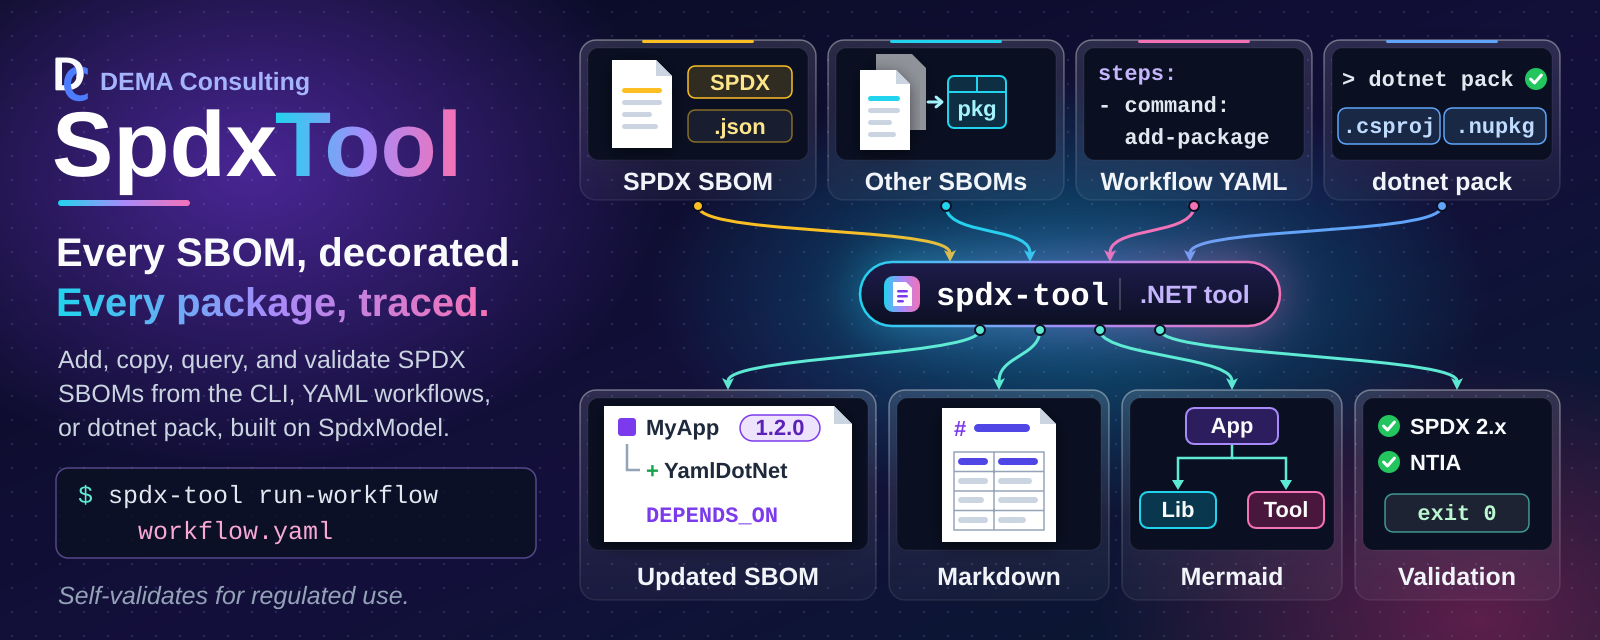
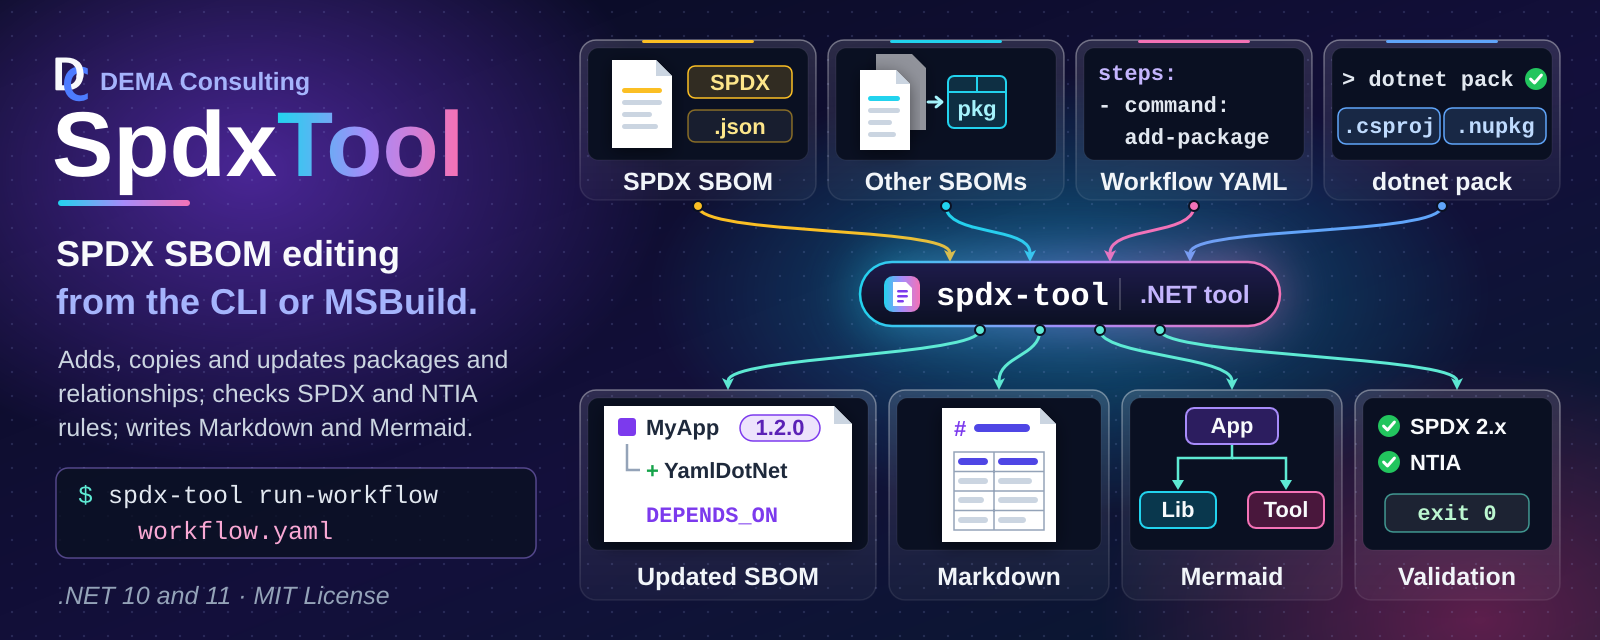
Sync agents/template and calm the README hero (#229)
* Sync shared agents, skills and standards (Agents #60, #62, #64)

Copy orchestrator/planning agents, sysml2tools-query skill and sysml2-modeling
standard verbatim; add the Project Scripts section to AGENTS.md, drop fix.ps1/lint.ps1
from the protected list, and record the legacy SysML2 package layout as a
repository-specific exception.

* Sync template: yamlfix comment setting and script CUSTOMIZATION headers (#61, #63)

* Calm the README hero and make it the H1 (template #66, #67)

Plain tagline 'SPDX SBOM editing / from the CLI or MSBuild.', factual body and
footnote, gradient only on the second wordmark word; README starts with the hero
as its H1 followed by the badges.

---------

diff --git a/.github/standards/sysml2-modeling.md b/.github/standards/sysml2-modeling.md
@@ -31,15 +31,15 @@ docs/sysml2/
 ├── common/
 │   └── software-items.sysml           # shared SoftwareItemMetadata::SoftwareInfo metadata def
 ├── model/
-│   ├── {system-name}.sysml            # system-level part def only (no subsystems/units inline)
+│   ├── {system-name}.sysml            # package {SystemName}; system-level part def only (no subsystems/units inline)
 │   ├── {system-name}/
-│   │   ├── {subsystem-name}.sysml     # subsystem part def; nests further for sub-subsystems
+│   │   ├── {subsystem-name}.sysml     # package {SystemName}_{SubsystemName}Subsystem; nests further for sub-subsystems
 │   │   └── {subsystem-name}/
-│   │       └── {unit-name}.sysml      # one file per unit
-│   ├── ots.sysml                      # OTS dependency parts (optional; if OTS items exist)
-│   └── shared.sysml                   # Shared Package parts (optional; if Shared Packages exist)
+│   │       └── {unit-name}.sysml      # package {SystemName}_{UnitName}; one file per unit
+│   ├── ots.sysml                      # package OtsDependencies: OTS parts (optional; if OTS items exist)
+│   └── shared.sysml                   # package SharedPackages: Shared Package parts (optional; if Shared Packages exist)
 └── views/
-    └── design-views.sysml             # named view usages rendered for the design document
+    └── design-views.sysml             # package {RepoName}DesignViews; named view usages rendered for the design document
 ```
 
 `docs/sysml2/common/software-items.sysml` defines the `SoftwareItemMetadata::SoftwareInfo`
@@ -62,14 +62,42 @@ so no single alias name would generalize. Agents discover the system(s) present 
 `docs/sysml2/**/*.sysml`, not by assuming a fixed name.
 
 Always pass the full set of `.sysml` files (or an equivalent glob) to every `sysml2tools`
-invocation — the model spans multiple files and cross-references between them; files sharing
-the same `package Name { ... }` merge into one namespace automatically with no `import`
-required, as long as all files are passed together. As of `sysml2tools` 0.1.0-beta.5,
+invocation — the model spans multiple files and cross-references between them, and a
+reference only resolves when the file declaring its target is loaded (see Package Structure
+below for how files reference each other). As of `sysml2tools` 0.1.0-beta.5,
 `lint` and `render` both expand `*`/`**` glob patterns internally (recursing correctly into
 subdirectories), so pass a single **quoted** glob string (e.g. `'docs/sysml2/**/*.sysml'`)
 and let the tool resolve it — do not rely on the shell to expand it, and do not quote-strip
 the pattern before it reaches the tool. Quoting keeps the behavior identical across
 PowerShell and bash, since neither shell needs to (or reliably does) expand `**` itself.
+
+## Package Structure
+
+SysML v2 has no package merging: each file is its own root namespace, and two root packages
+with the same name are duplicate members of the global namespace (the OMG Pilot
+Implementation reports "Duplicate of other owned member name" for each, and references across
+the halves do not resolve). A model that only loads because a tool is lenient is not portable,
+so:
+
+- Each `.sysml` file declares **exactly one uniquely named package**, and a package is never
+  declared (or "reopened") in more than one file.
+- Name each package from its place in the hierarchy, joined with an underscore:
+  `{SystemName}` for the system file, `{SystemName}_{SubsystemName}Subsystem` for a subsystem
+  (including a nested sub-subsystem, which is not prefixed with its parent subsystem), and
+  `{SystemName}_{UnitName}` for a unit. The system prefix keeps names unique across systems.
+  The shared files use `OtsDependencies` and `SharedPackages`, and the single views file uses
+  one repository-level package, `{RepoName}DesignViews` (not one per system).
+- Package names must be unique **repository-wide**. The short forms above are the default;
+  when one would collide (two `Storage` subsystems in different branches, or two units named
+  `Cache` in different subsystems), qualify it with the owning subsystem path, for example
+  `{SystemName}_{SubsystemName}_{UnitName}` (`Acme_Ingest_Cache` and `Acme_Query_Cache`).
+- Reference other files with an explicit `private import {PackageName}::*;` (a system or
+  subsystem file imports the package of each direct member so its `part` usages resolve; every
+  file that applies `SoftwareInfo` imports `SoftwareItemMetadata::*`).
+- Where an import would form a cycle (for example a unit that depends on a package that
+  already imports it), or for a one-off reference into another system, use the qualified name
+  instead, e.g. `dependency {UnitName} to {SystemName}_{OtherUnit}::{OtherUnit};`.
+  Import cycles raise a lint warning; qualified references do not.
 
 ## Model Content
 
@@ -174,11 +202,13 @@ Views control what gets rendered into diagrams for the design document. Use name
 **usages** (not `view def` **definitions**) — `expose` is only valid inside a usage:
 
 ```sysml
-package {SystemName} {
+package {RepoName}DesignViews {
     private import StandardViewDefinitions::*;
+    private import {SystemName}::*;
+    private import {SystemName}_{SubsystemName}Subsystem::*;
 
     view SoftwareStructureView : InterconnectionView {
-        expose {SystemName}::**;     // all members, recursively: system + subsystems + units
+        expose {SystemName}::{SystemName}System::**;  // system part def, recursively: subsystems + units
     }
 
     view {SystemName}View {
@@ -186,10 +216,12 @@ package {SystemName} {
     }
 
     view {SubsystemName}View {
-        expose {SubsystemName};      // one subsystem def only
+        expose {SubsystemName}Subsystem;      // one subsystem def only
     }
 }
 ```
+
+Views import (or qualify) every package whose members they expose, like any other file.
 
 Type `SoftwareStructureView` by a standard view definition from the SysML v2 Views library
 (`GeneralView`, `InterconnectionView`, ...; requires `sysml2tools` 0.3.0-beta.3+). The view
@@ -223,25 +255,27 @@ There is no dedicated `DependencyView`/`{SubsystemName}DependencyView` diagram c
 above), not rendered.
 
 When a repository has multiple systems, type `SoftwareStructureView` by `GeneralView`,
-expose each system package's members, and filter out documentation so the overview stays
-readable — the general view draws one package frame per system, while an interconnection
-view places all systems in a single row:
+expose each system's part def (and each subsystem's, by qualified name), and filter out
+documentation so the overview stays readable — the general view draws one package frame per
+system, while an interconnection view places all systems in a single row:
 
 ```sysml
 package {RepoName}DesignViews {
     private import StandardViewDefinitions::*;
 
     view SoftwareStructureView : GeneralView {
-        expose {SystemNameA}::**;
-        expose {SystemNameB}::**;
-        filter not @SysML::Documentation;
+        expose {SystemNameA}::{SystemNameA}System;
+        expose {SystemNameA}_{SubsystemName}Subsystem::{SubsystemName}Subsystem;
+        expose {SystemNameB}::{SystemNameB}System;
+        filter not (@SysML::Documentation);
     }
 }
 ```
 
 Documentation (`doc`) is exposed with its owner and drawn as a `doc` compartment unless a
-view filters it out; use `filter not @SysML::Documentation;` wherever doc text would clutter
-a diagram.
+view filters it out; use `filter not (@SysML::Documentation);` wherever doc text would clutter
+a diagram. The parentheses are required: the SysML v2 grammar does not accept the unparenthesized
+`filter not @SysML::Documentation;`.
 
 ## Diagram Embedding
 
@@ -313,6 +347,9 @@ sync.
   `sourceFiles`; the purpose statement appears only in the `doc` comment, never in `SoftwareInfo`
 - [ ] `docs/sysml2/views/design-views.sysml` uses `view Name { expose ...; }` usages, not
   `view def` definitions
+- [ ] Each `.sysml` file declares exactly one uniquely named package (never the same package
+  in two files), named per Package Structure, and references other files through
+  `private import` or qualified names (qualified where an import would form a cycle)
 - [ ] View names follow the `SoftwareStructureView` / `{SystemName}View` /
   `{SubsystemName}View` convention (no dedicated `DependencyView`)
 - [ ] Each Unit's real collaborators are captured as `dependency A to B;` statements, and each

diff --git a/.github/skills/sysml2tools-query/SKILL.md b/.github/skills/sysml2tools-query/SKILL.md
@@ -21,11 +21,15 @@ dotnet tool restore
 ## Model files
 
 - `docs/sysml2/model/{system-name}.sysml` — system-level `part def` only (no subsystems/units
-  inline). A repository may contain more than one system.
+  inline), in package `{SystemName}`. A repository may contain more than one system.
 - `docs/sysml2/model/{system-name}/{subsystem-name}.sysml` and
   `docs/sysml2/model/{system-name}/{subsystem-name}/{unit-name}.sysml` — one file per
   Subsystem/Unit, nested to mirror the same folder depth as that item's companion
-  `docs/design/`, `docs/reqstream/`, and `docs/verification/` files.
+  `docs/design/`, `docs/reqstream/`, and `docs/verification/` files. Each declares its own
+  uniquely named package; by default `{SystemName}_{SubsystemName}Subsystem` or
+  `{SystemName}_{UnitName}`, qualified with the subsystem path
+  (`{SystemName}_{SubsystemName}_{UnitName}`) when the short name would collide. An element's
+  qualified name is e.g. `{SystemName}_{UnitName}::{UnitName}`.
 - `docs/sysml2/model/ots.sysml` — off-the-shelf (OTS) dependency parts (present when OTS items
   exist).
 - `docs/sysml2/model/shared.sysml` — Shared Package parts (present when Shared Package items
@@ -35,9 +39,10 @@ dotnet tool restore
   useful to see how diagrams are scoped.
 
 Always pass all `.sysml` files (or a glob covering them) to every `sysml2tools`
-invocation — the model spans multiple files and cross-references between them; files that
-reopen the same `package Name { ... }` from different files merge into one namespace
-automatically, no `import` required. As of `sysml2tools` 0.1.0-beta.5, every subcommand
+invocation — the model spans multiple files and cross-references between them (each file
+declares one uniquely named package and references others through `import` or qualified
+names; same-named packages in different files are not merged), so every file a reference
+points at must be loaded. As of `sysml2tools` 0.1.0-beta.5, every subcommand
 (`lint`, `render`, `query`) expands `*`/`**` glob patterns internally and recurses
 correctly — pass a single **quoted** glob string and let the tool resolve it, rather than
 relying on the shell (quoting works identically in both PowerShell and bash):
@@ -57,7 +62,7 @@ summary line, so one query gets you every artifact location for that item withou
 the source tree:
 
 ```pwsh
-dotnet sysml2tools query describe -e {SystemName}::{UnitName} 'docs/sysml2/**/*.sysml'
+dotnet sysml2tools query describe -e {SystemName}_{UnitName}::{UnitName} 'docs/sysml2/**/*.sysml'
 ```
 
 ```text

diff --git a/AGENTS.md b/AGENTS.md
@@ -132,6 +132,15 @@ enforcement should exclude these requirements (e.g., by removing the `ci-pipelin
 tag from the set of tags being enforced, or by using `--filter` to restrict enforcement
 to non-OTS requirements).
 
+## SysML2 package structure (legacy layout, migration pending)
+
+The model in `docs/sysml2/` predates the `sysml2-modeling.md` Package Structure rules: package
+`SpdxTool` is reopened across 49 files and `SpdxToolTargets` across 4 files (both including
+`views/design-views.sysml`, which uses these system packages instead of `SpdxToolDesignViews`), and
+`common/software-items.sysml` declares `SoftwareItemMetadata`. The Package Structure rules and the
+`sysml2tools-query` qualified-name examples apply once the model is migrated in a dedicated PR; until
+then, agents use the existing package names and must not partially restructure the model.
+
 # Agent Delegation Guidelines
 
 The default agent should handle simple, straightforward tasks directly.
@@ -204,7 +213,17 @@ requires it and the modification preserves the documented design intent:
 
 - `.reviewmark.yaml`, `.textlint.yaml`, `.editorconfig`
 - `.lintmark.yaml`, `.yamllint.yaml`
-- `requirements.yaml`, `fix.ps1`, `lint.ps1`
+- `requirements.yaml`
+
+# Project Scripts
+
+`build.ps1`, `lint.ps1`, and `fix.ps1` belong to the project: extend them as it grows. Add project-specific
+steps, update tool versions, and add optional parameters that focus a run (for example one library in a
+multi-library repository, or headless tests without GUI automation). Two rules keep them trustworthy:
+
+- Run with no arguments, each script still does its full job (CI and the agents rely on that); slow or
+  environment-dependent test tiers may be opt-in switches of `build.ps1`.
+- Never remove or weaken a check to make lint or tests pass.
 
 # Continuous Compliance Overview
 

diff --git a/README.md b/README.md
@@ -1,4 +1,4 @@
-# SpdxTool
+# ![SpdxTool: SPDX SBOM editing from the CLI or MSBuild][hero]
 
 <!-- IMPORTANT: All links in this file must be absolute URLs.
      This file is distributed in packages and relative links will not resolve. -->
@@ -11,15 +11,6 @@
 [![Quality Gate Status](https://sonarcloud.io/api/project_badges/measure?project=demaconsulting_SpdxTool&metric=alert_status)](https://sonarcloud.io/summary/new_code?id=demaconsulting_SpdxTool)
 [![Security Rating](https://sonarcloud.io/api/project_badges/measure?project=demaconsulting_SpdxTool&metric=security_rating)](https://sonarcloud.io/summary/new_code?id=demaconsulting_SpdxTool)
 [![NuGet Version](https://img.shields.io/nuget/v/DemaConsulting.SpdxTool?style=plastic)](https://www.nuget.org/packages/DemaConsulting.SpdxTool)
-
-![SpdxTool banner: the SpdxTool name with the tagline 'Every SBOM, decorated. Every package, traced.' and the
-command 'spdx-tool run-workflow workflow.yaml'. An SPDX JSON SBOM, other SPDX SBOMs to copy packages from,
-workflow YAML steps such as add-package, and dotnet pack of a project flow on curved arrows into the spdx-tool
-.NET tool, and arrows lead out to an updated SBOM with an added package and its DEPENDS_ON relationship, a
-Markdown summary with a package table, a Mermaid diagram of packages and their relationships, and a validation
-result with SPDX and NTIA checks passing and exit code 0][hero]
-
-.NET tool for manipulating SPDX SBOM files
 
 ## Overview
 

diff --git a/.github/agents/orchestrator.agent.md b/.github/agents/orchestrator.agent.md
@@ -48,3 +48,16 @@ briefly, what you loaded.
   let the user answer in their own words. Do not batch decisions into structured question forms (such as an
   `ask_user` tool); they strip away the context the user needs to decide and turn the session into a
   questionnaire.
+
+# Pull Requests (MANDATORY)
+
+Aim for pull requests that each merge one complete, useful change that could be cherry-picked on its own.
+
+- Before starting work that could span more than one pull request, propose the grouping and let the user
+  decide. The user may split it, or combine several small requests into one pull request.
+- When splitting, split by behavior, not by layer or file type: each part carries its own code, tests,
+  requirements, and docs, builds and passes alone, and leaves no stubs or dead code for a later part.
+- Deliver parts in order: start the next part from main only after the previous one merges.
+- Review fixes, lint fixes, and follow-ups go into the open pull request they belong to, not a new one.
+- Sub-agents work on the agreed branch and do not open pull requests; you decide when it is complete.
+- Keep mechanical churn (formatting, renames, generated files) in its own commit so reviewers can skip it.

diff --git a/.github/agents/planning.agent.md b/.github/agents/planning.agent.md
@@ -52,10 +52,13 @@ Repeat up to 2 more times, stopping when the plan is stable.
 
 List up to 5 risks with a brief mitigation for each.
 
-## Step 6 — Feasibility Assessment
+## Step 6 — Feasibility and Delivery
 
 State whether this can be implemented in a single development pass and any
-preconditions that affect feasibility.
+preconditions that affect feasibility. Propose how the work groups into pull
+requests: one complete, useful change per pull request where possible; if it
+should be split, list ordered parts that are split by behavior (not by layer or
+file type) and each build, pass, and deliver something on their own.
 
 ## Step 7 — Recommendation
 
@@ -108,9 +111,12 @@ Then respond to the caller with ONLY the lean structured summary below.
 
 1. **[severity]** {risk} — {mitigation}
 
-## Feasibility Assessment
+## Feasibility and Delivery
 
 {Single-pass or not, and why. Any preconditions.}
+
+{Proposed pull-request grouping: one pull request, or ordered parts split by behavior,
+each with what it delivers on its own.}
 
 ## Unknowns
 
